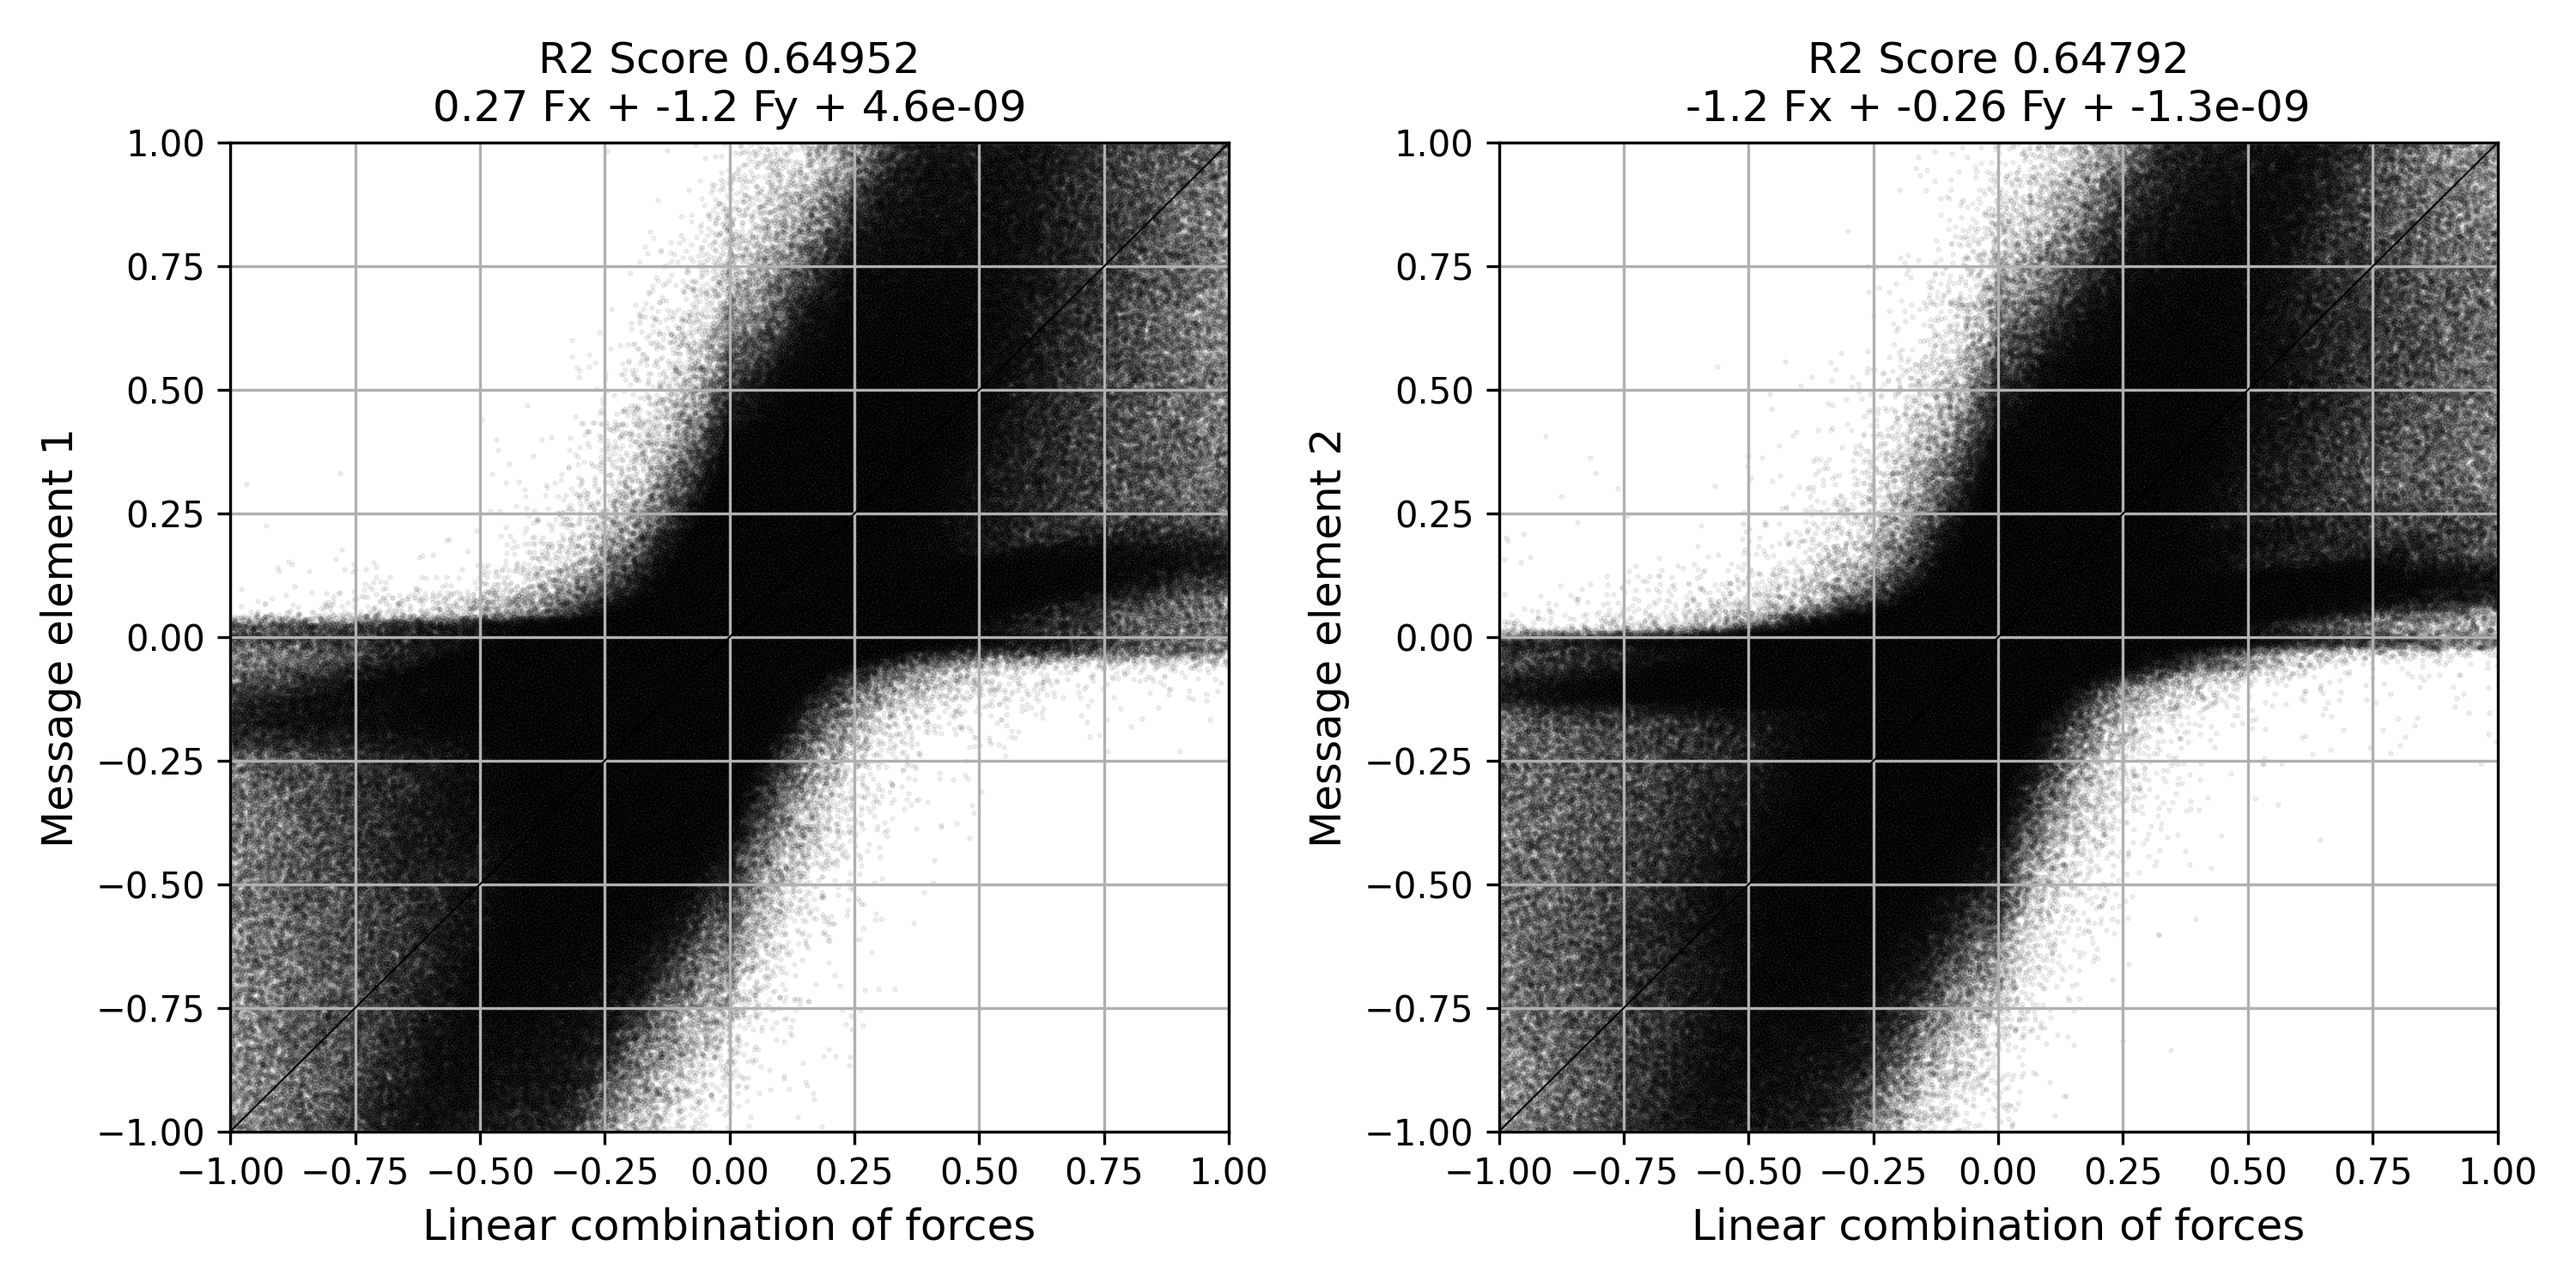
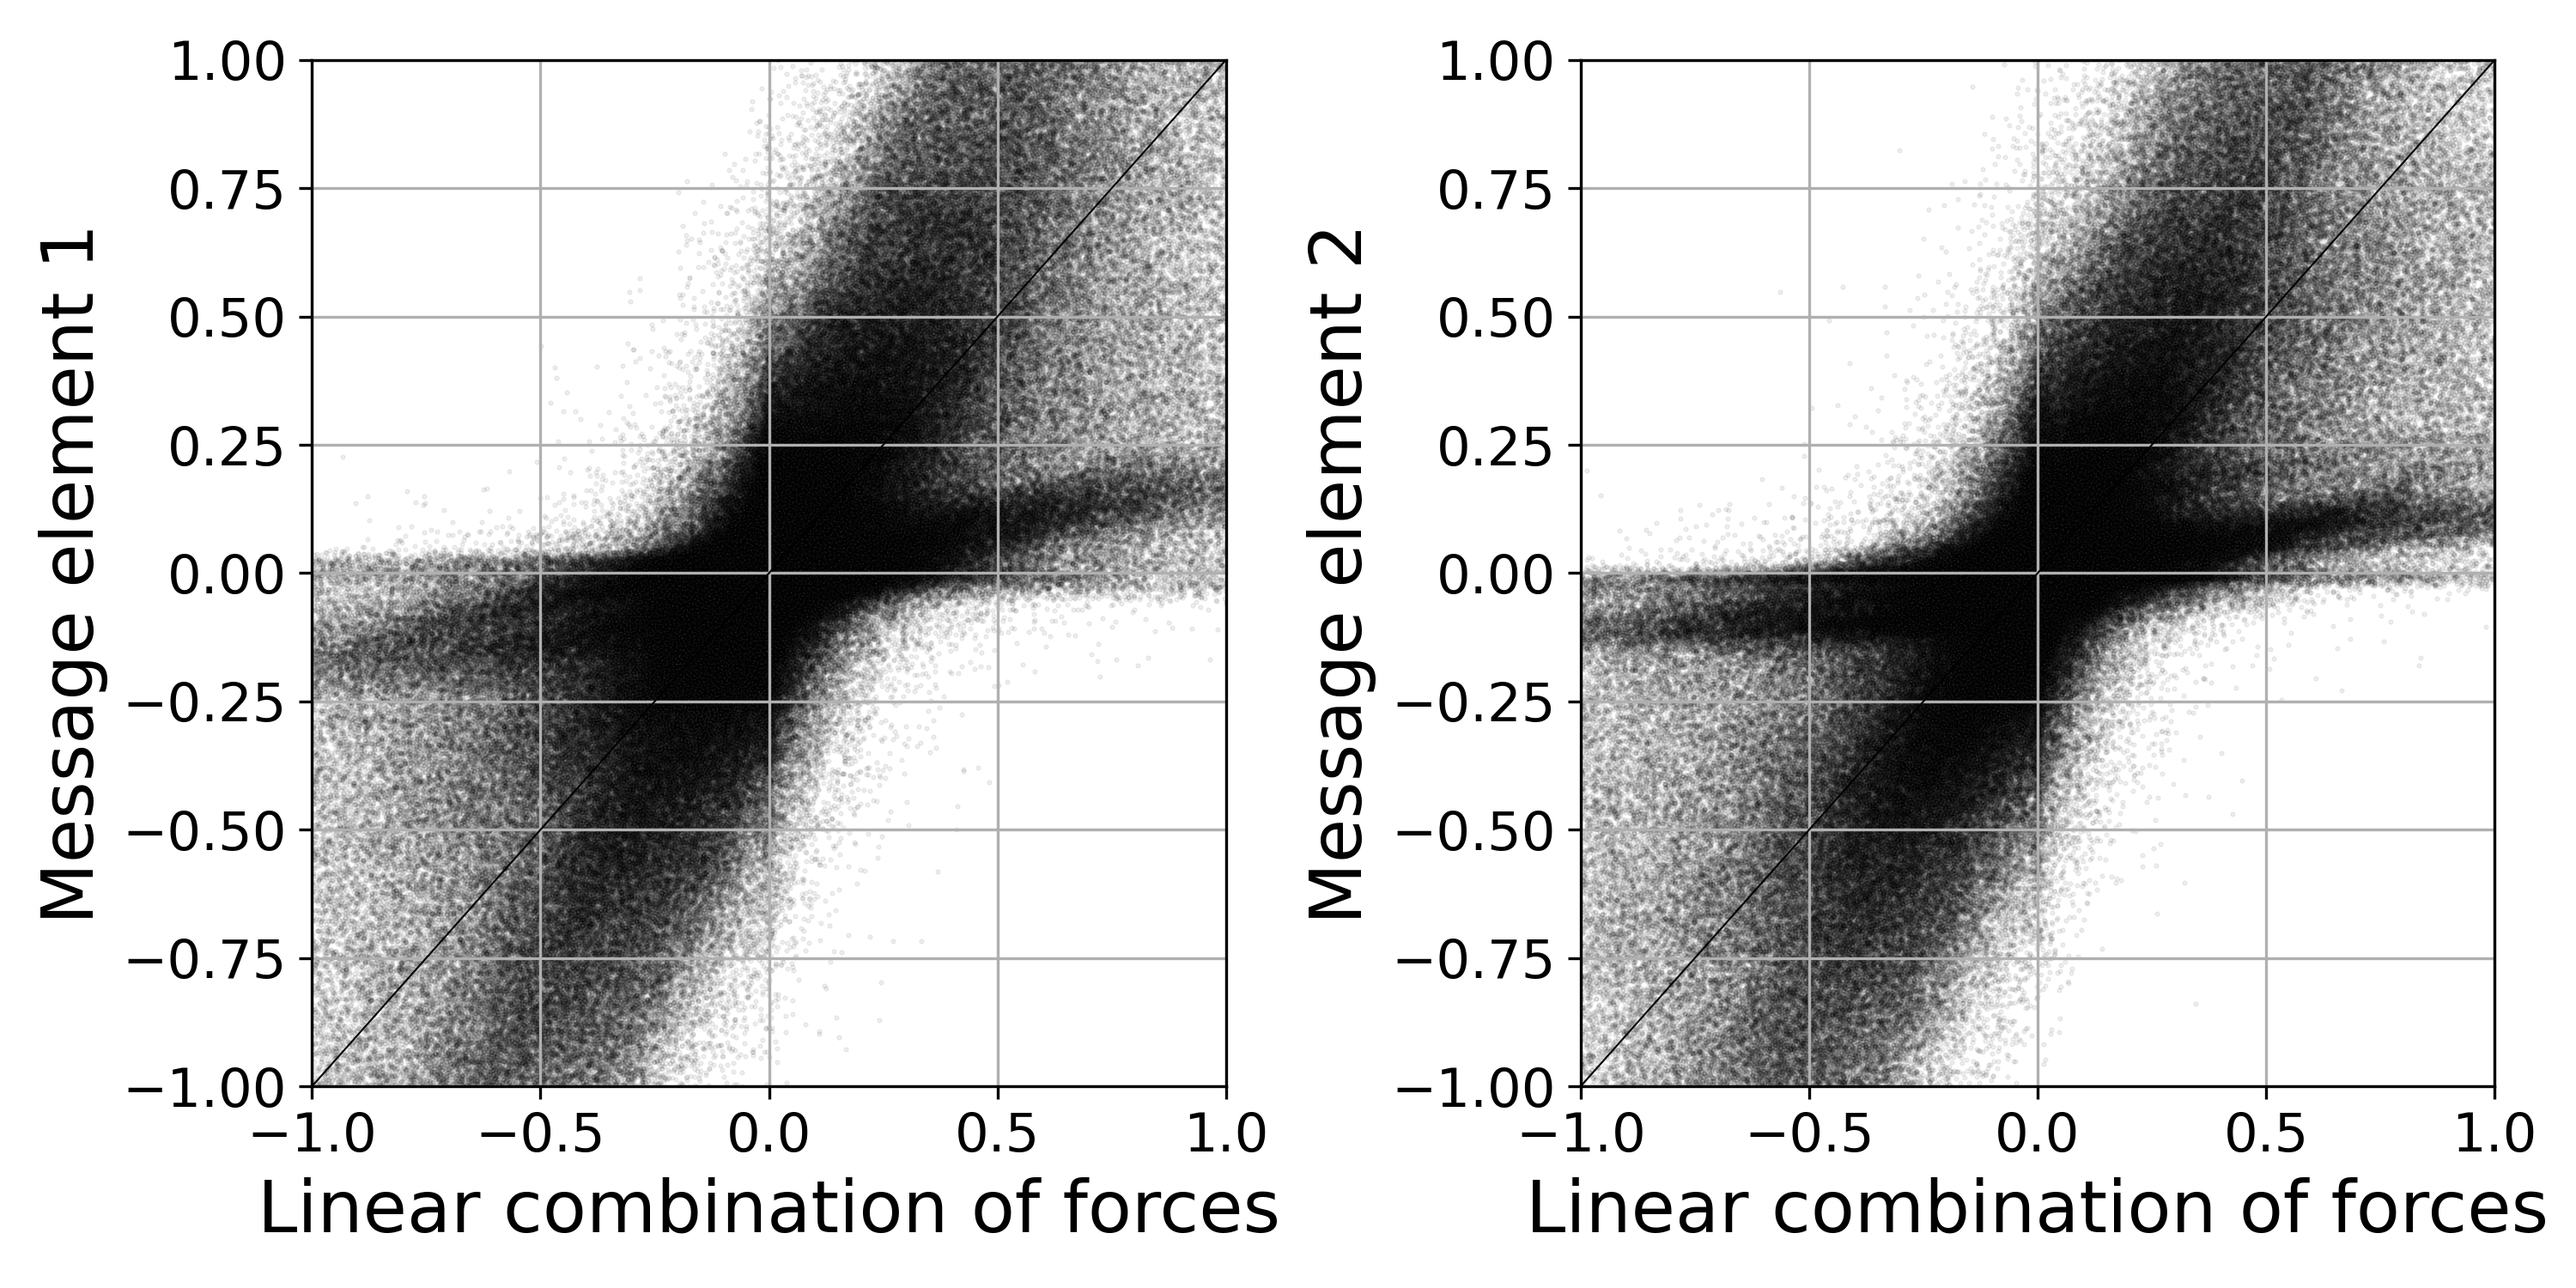
replotted with bigger axis labels and ticks

diff --git a/plot_linear_rep.py b/plot_linear_rep.py
@@ -351,9 +351,10 @@ def plot_force_components(r2_scores, lin_combos, msgs_to_compare, params, save_p
 
         title = f"{params[i][1]:.2g} Fx + {params[i][2]:.2g} Fy + {params[i][0]:.2g}"
         ax[i].grid(True)
-        ax[i].set_xlabel("Linear combination of forces", fontsize = 12)
-        ax[i].set_ylabel(f"Message element {i+1}", fontsize = 12)
-        ax[i].set_title(f"R2 Score {r2:.5g}\n{title}", fontsize = 12)
+        ax[i].tick_params(axis='both', labelsize=15)
+        ax[i].set_xlabel("Linear combination of forces", fontsize = 20)
+        ax[i].set_ylabel(f"Message element {i+1}", fontsize = 20)
+        # ax[i].set_title(f"R2 Score {r2:.5g}\n{title}", fontsize = 12)
     
     plt.tight_layout()
     plt.savefig(f'{save_path}/epoch_{epochs}.png', dpi = 300)
